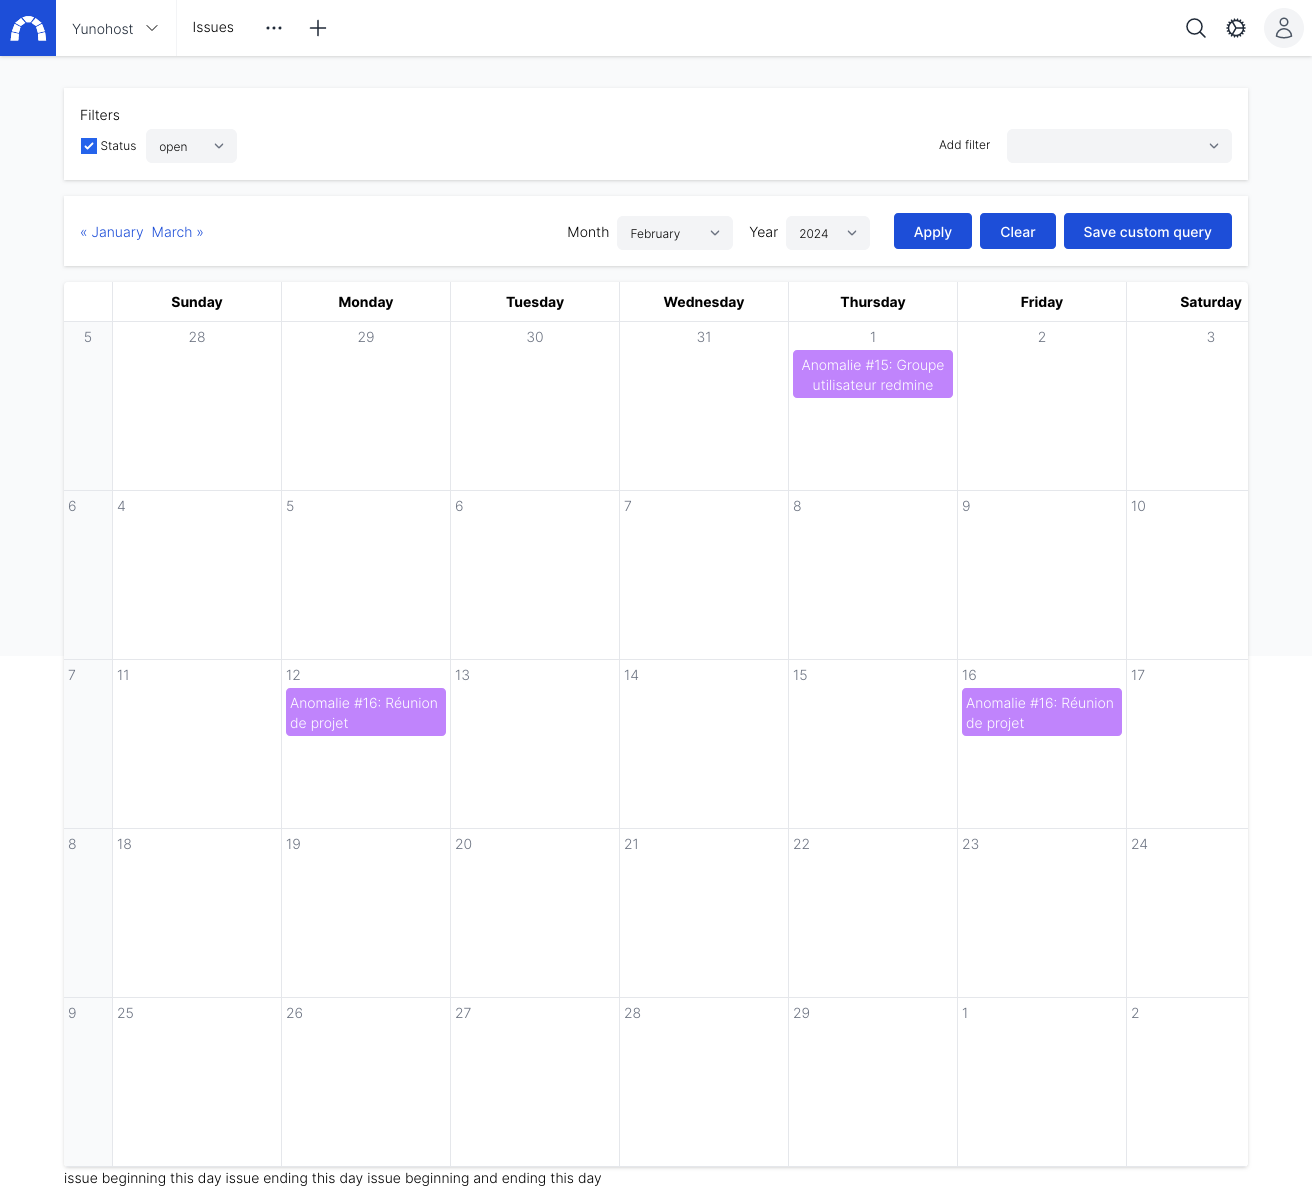
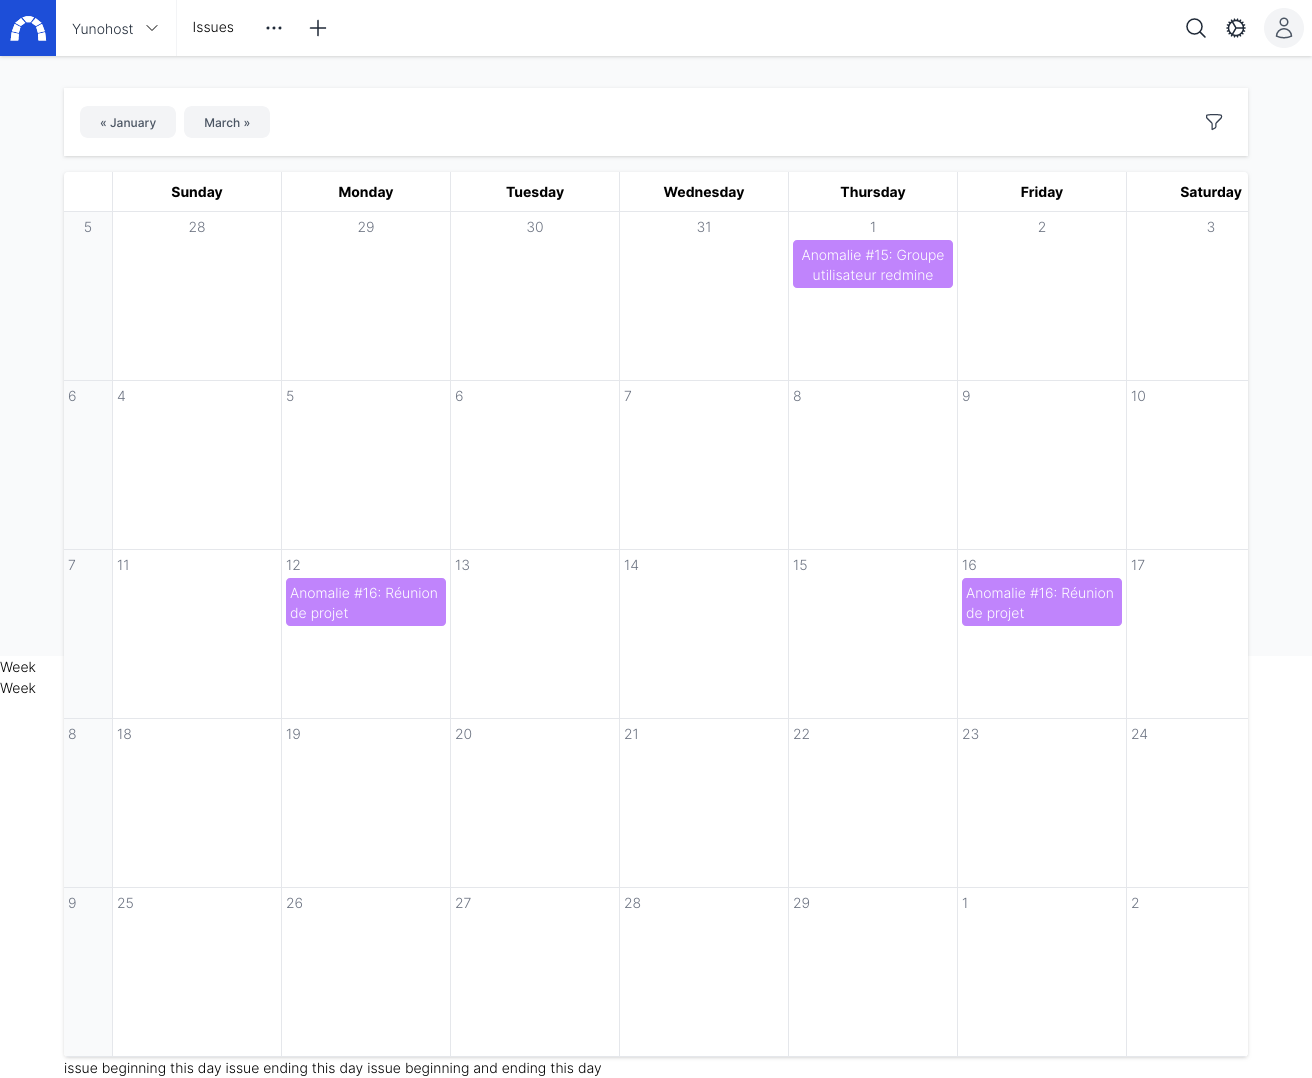
hide filters to calendars

diff --git a/assets/stylesheets/application.css b/assets/stylesheets/application.css
@@ -790,6 +790,35 @@ a.icon:focus{
   }
 }
 
+.action-button-with-icon{
+  cursor: pointer;
+  border-radius: 9999px;
+  padding: 0.5rem;
+  --tw-text-opacity: 1;
+  color: rgb(55 65 81 / var(--tw-text-opacity));
+}
+
+.action-button-with-icon:hover{
+  --tw-bg-opacity: 1;
+  background-color: rgb(243 244 246 / var(--tw-bg-opacity));
+  --tw-text-opacity: 1;
+  color: rgb(31 41 55 / var(--tw-text-opacity));
+}
+
+@media (prefers-color-scheme: dark){
+  .action-button-with-icon{
+    --tw-text-opacity: 1;
+    color: rgb(156 163 175 / var(--tw-text-opacity));
+  }
+
+  .action-button-with-icon:hover{
+    --tw-bg-opacity: 1;
+    background-color: rgb(55 65 81 / var(--tw-bg-opacity));
+    --tw-text-opacity: 1;
+    color: rgb(209 213 219 / var(--tw-text-opacity));
+  }
+}
+
 /* ! tailwindcss v3.3.6 | MIT License | https://tailwindcss.com */
 
 /*
@@ -1705,6 +1734,11 @@ select{
   margin-bottom: 0.5rem;
 }
 
+.my-4{
+  margin-top: 1rem;
+  margin-bottom: 1rem;
+}
+
 .my-8{
   margin-top: 2rem;
   margin-bottom: 2rem;
@@ -2071,6 +2105,10 @@ select{
   border-radius: 0.375rem;
 }
 
+.rounded-xl{
+  border-radius: 0.75rem;
+}
+
 .rounded-t-lg{
   border-top-left-radius: 0.5rem;
   border-top-right-radius: 0.5rem;
@@ -2188,6 +2226,11 @@ select{
 .bg-white{
   --tw-bg-opacity: 1;
   background-color: rgb(255 255 255 / var(--tw-bg-opacity));
+}
+
+.bg-gray-700{
+  --tw-bg-opacity: 1;
+  background-color: rgb(55 65 81 / var(--tw-bg-opacity));
 }
 
 .p-1{
@@ -2561,6 +2604,11 @@ select{
   background-color: rgb(254 226 226 / var(--tw-bg-opacity));
 }
 
+.hover\:bg-gray-800:hover{
+  --tw-bg-opacity: 1;
+  background-color: rgb(31 41 55 / var(--tw-bg-opacity));
+}
+
 .hover\:pl-3:hover{
   padding-left: 0.75rem;
 }
@@ -2623,6 +2671,11 @@ select{
 .focus\:ring-gray-200:focus{
   --tw-ring-opacity: 1;
   --tw-ring-color: rgb(229 231 235 / var(--tw-ring-opacity));
+}
+
+.focus\:ring-gray-300:focus{
+  --tw-ring-opacity: 1;
+  --tw-ring-color: rgb(209 213 219 / var(--tw-ring-opacity));
 }
 
 .group:hover .group-hover\:flex{
@@ -2812,6 +2865,11 @@ select{
   .dark\:focus\:ring-gray-700:focus{
     --tw-ring-opacity: 1;
     --tw-ring-color: rgb(55 65 81 / var(--tw-ring-opacity));
+  }
+
+  .dark\:focus\:ring-gray-800:focus{
+    --tw-ring-opacity: 1;
+    --tw-ring-color: rgb(31 41 55 / var(--tw-ring-opacity));
   }
 
   .group:hover .dark\:group-hover\:text-white{

diff --git a/assets/javascripts/controllers/query_controller.js b/assets/javascripts/controllers/query_controller.js
@@ -1,0 +1,30 @@
+(() => {
+  const application = Stimulus.Application.start()
+
+  application.register("query", class extends Stimulus.Controller {
+
+    static get targets() {
+      return [ "filters" ]
+    }
+
+    connect() {}
+
+    toggle(event){
+      this.filtersTarget.classList.toggle('hidden');
+      this.dismissOnClick(this.filtersTarget);
+    }
+
+    dismissOnClick(element) {
+      document.addEventListener('click', (evt) => {
+        var isClickInside = element.contains(evt.target);
+        if (!isClickInside) {
+          element.classList.add('hidden')
+        }
+      },
+      { once: true, capture: true }
+     );
+    }
+
+  })
+
+})()

diff --git a/assets/src/buttons.css b/assets/src/buttons.css
@@ -1,3 +1,7 @@
 a.icon{
   @apply text-white bg-blue-700 hover:bg-blue-800 focus:ring-4 focus:ring-blue-300 font-medium rounded text-sm px-5 py-2 ml-2 dark:bg-blue-600 dark:hover:bg-blue-700 focus:outline-none dark:focus:ring-blue-800;
 }
+
+.action-button-with-icon{
+  @apply cursor-pointer p-2 rounded-full hover:bg-gray-100 text-gray-700 dark:text-gray-400 dark:hover:text-gray-300 dark:hover:bg-gray-700 hover:text-gray-800;
+}

diff --git a/assets/javascripts/application.js b/assets/javascripts/application.js
@@ -2,6 +2,7 @@ import "./controllers/usermenu_controller.js"
 import "./controllers/projectmenu_controller.js"
 import "./controllers/issues_controller.js"
 import "./controllers/issue_controller.js"
+import "./controllers/query_controller.js"
 
 document.addEventListener("DOMContentLoaded", function(e) {
   if(document.querySelector('#menu-breadcrumb')){

diff --git a/doc/development.md b/doc/development.md
@@ -3,8 +3,8 @@
 ## Build assets
 
 ```
-cd $REDMINE_ROOT/plugins/redmine_asap_theme/assets/stylesheets
-npx tailwindcss -i ./input.css -o ./application.css --watch
+cd $REDMINE_ROOT/plugins/redmine_asap_theme/assets/
+npm run dev
 ```
 
 TODO

diff --git a/doc/progress.md b/doc/progress.md
@@ -45,3 +45,7 @@ Let see it in action
 ## Calendar
 
 ![Calendar](img/redmine_calendar.png)
+
+And when the user click on the filter icon on the right
+
+![Calendar](img/redmine_calendar_filters.png)

diff --git a/doc/features.md b/doc/features.md
@@ -62,7 +62,7 @@ Account
 
 ## Issue
 
-- [] UX/UI of an issue (WIP)
+- [ ] UX/UI of an issue (WIP)
   - [x] General layout
   - [ ] Tabs for history and notes
   - [ ] Sidebar
